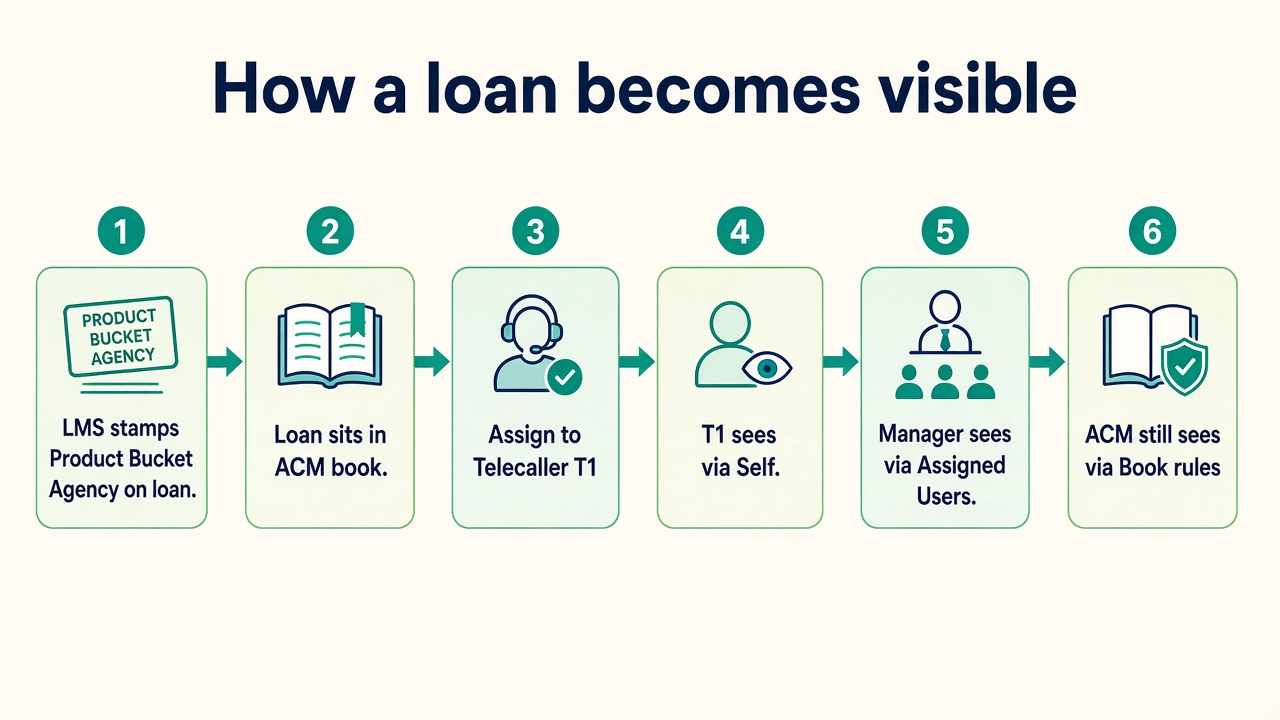
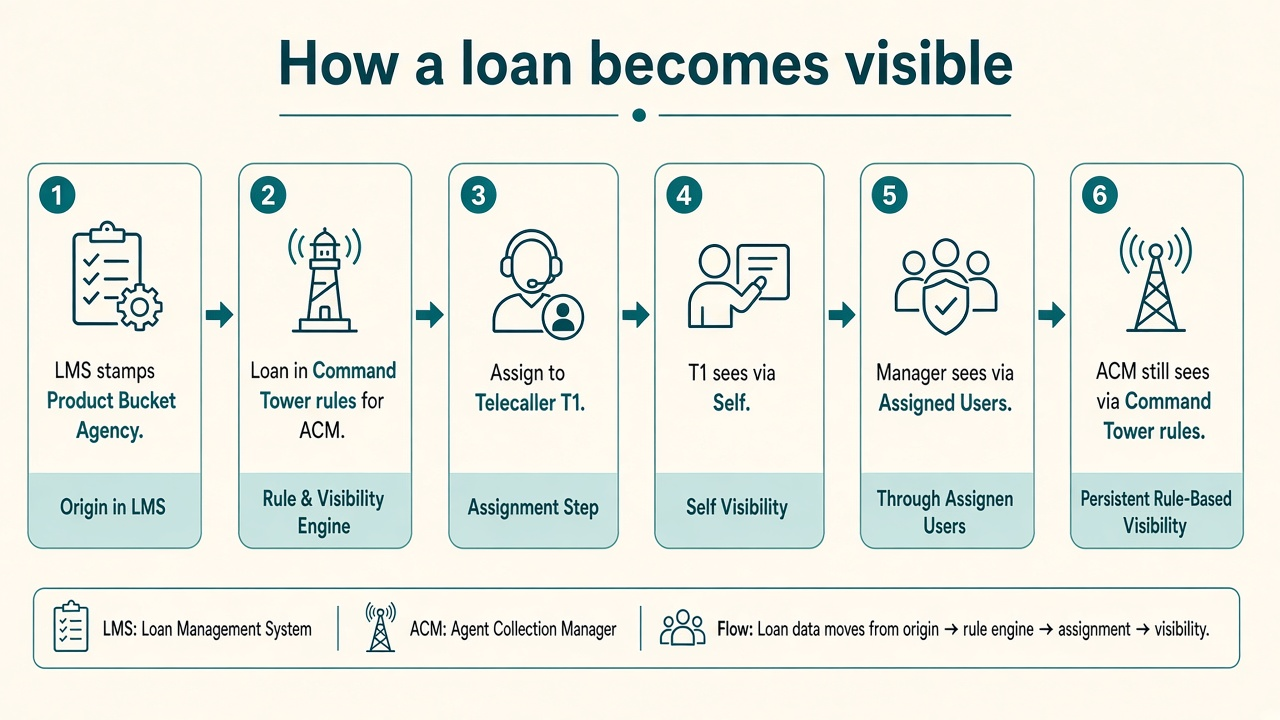
Rename book rules to Command Tower rules in the HTML understanding doc.

diff --git a/Collekto-AuthZ-Visibility-Client-Briefing.html b/Collekto-AuthZ-Visibility-Client-Briefing.html
@@ -351,18 +351,18 @@
 
       <h3>2. Today vs target</h3>
       <img class="diagram-img" src="assets/diagram-today-vs-target.png" alt="Temporary agency workaround versus Visibility solution" />
-      <p class="diagram-cap">Today: agency per manager → portfolios multiply. Target: Visibility (team + book) — no agency-per-manager for access.</p>
+      <p class="diagram-cap">Today: agency per manager → portfolios multiply. Target: Visibility (team + Command Tower rules) — no agency-per-manager for access.</p>
 
-      <h3>3. Book rules vs team rules</h3>
-      <img class="diagram-img" src="assets/diagram-book-vs-team.png" alt="Book rules versus team rules" />
-      <p class="diagram-cap"><strong>Book</strong> = Product/Bucket/Agency on the loan. <strong>Team</strong> = Assigned Users / Self. Same user can have both (OR).</p>
+      <h3>3. Command Tower rules vs team rules</h3>
+      <img class="diagram-img" src="assets/diagram-book-vs-team.png" alt="Command Tower rules versus team rules" />
+      <p class="diagram-cap"><strong>Command Tower rules</strong> = Product/Bucket/Agency on the loan (from CT map). <strong>Team rules</strong> = Assigned Users / Self. Same user can have both (OR).</p>
       <div class="mermaid">
 flowchart TB
   Loan[Loan attributes + assignee]
-  Book[Book rules]
+  CTRules[Command Tower rules]
   Team[Team / Self rules]
   Out[Visible]
-  Loan --> Book --> Out
+  Loan --> CTRules --> Out
   Loan --> Team --> Out
       </div>
 
@@ -377,16 +377,16 @@ sequenceDiagram
   participant T1 as Telecaller
   participant M1 as Manager
   LMS->>Loan: Stamp Product Bucket Agency
-  Note over ACM,Loan: ACM sees via book even if unassigned
+  Note over ACM,Loan: ACM sees via Command Tower rules even if unassigned
   Loan->>Loan: Assign worker T1
   Loan-->>T1: Self
   Loan-->>M1: T1 in Assigned Users
-  Loan-->>ACM: Still via book
+  Loan-->>ACM: Still via Command Tower rules
       </div>
 
       <h3>5. Who appears in dropdowns</h3>
       <img class="diagram-img" src="assets/diagram-dropdowns.png" alt="Manager and sub-tenant dropdown population" />
-      <p class="diagram-cap">Manager = Assigned Users only. Sub-tenant = Command Tower book + people resolver (+ direct Assigned Users if no manager).</p>
+      <p class="diagram-cap">Manager = Assigned Users only. Sub-tenant = Command Tower scope + people resolver (+ direct Assigned Users if no manager).</p>
       <div class="mermaid">
 flowchart LR
   M[Manager] --> AU[Assigned Users] --> D1[Only those TC FA]
@@ -440,7 +440,7 @@ flowchart LR
         <article class="card">
           <div class="q">Visibility</div>
           <h3>Which cases?</h3>
-          <p>Book rules + team rules + Self / All Cases.</p>
+          <p>Command Tower rules + team rules + Self / All Cases.</p>
         </article>
       </div>
       <div class="formula">ACCESS = Authenticated Identity + Required Permission + Matching Visibility</div>
@@ -500,7 +500,7 @@ flowchart TB
       <h2>3. Solution architecture</h2>
       <p>
         Visibility is <strong>configured case scope</strong>, not “simulate hierarchy with agencies.”
-        Hierarchy-like outcomes (manager team, area book, admin all-cases) are expressed as rules.
+        Hierarchy-like outcomes (manager team, Command Tower scope, admin all-cases) are expressed as rules.
       </p>
       <div class="mermaid">
 flowchart TB
@@ -518,7 +518,7 @@ flowchart TB
         <tbody>
           <tr><td>Same column, multiple values</td><td><strong>OR</strong></td><td>Bucket B1 | B2</td></tr>
           <tr><td>Different columns, one row</td><td><strong>AND</strong></td><td>Product PL AND Agency Inhouse</td></tr>
-          <tr><td>Multiple rows, same user</td><td><strong>OR</strong></td><td>Team assignees OR product book</td></tr>
+          <tr><td>Multiple rows, same user</td><td><strong>OR</strong></td><td>Team assignees OR Command Tower product scope</td></tr>
         </tbody>
       </table>
 
@@ -571,7 +571,7 @@ flowchart TB
           </tr>
           <tr>
             <td>Loan detail</td>
-            <td>May open cases outside intended book</td>
+            <td>May open cases outside intended Command Tower scope</td>
             <td>Deny if case fails visibility</td>
           </tr>
           <tr>
@@ -677,9 +677,9 @@ flowchart TB
             <td>Portfolio picker as security</td>
           </tr>
           <tr>
-            <td>Area / book admin (NCM/ZCM/RCM/ACM style)</td>
+            <td>Area / Command Tower admin (NCM/ZCM/RCM/ACM style)</td>
             <td>Yes + permissions</td>
-            <td>Product/Bucket/Agency (and later Branch) rows for their book</td>
+            <td>Product/Bucket/Agency (and later Branch) rows = Command Tower rules for their scope</td>
             <td>Assuming title alone grants loan filter</td>
           </tr>
         </tbody>
@@ -828,15 +828,15 @@ flowchart LR
           </tr>
           <tr>
             <td>ACM/RCM sees those people in <strong>dropdowns</strong></td>
-            <td>People resolver includes profiles listed on that CM’s Assigned Users <em>and/or</em> mapped under their Command Tower book without requiring a manager node</td>
+            <td>People resolver includes profiles listed on that CM’s Assigned Users <em>and/or</em> mapped under their Command Tower scope without requiring a manager node</td>
           </tr>
           <tr>
             <td>TC/FA own app / lists</td>
             <td>Still <strong>Self Assigned = Y</strong> — unchanged</td>
           </tr>
           <tr>
-            <td>Optional book overlap</td>
-            <td>ACM can also keep Product/Bucket/Agency rules from CT; Assigned Users covers the direct-report people path</td>
+            <td>Optional Command Tower rules overlap</td>
+            <td>ACM can also keep Command Tower rules (Product/Bucket/Agency from CT); Assigned Users covers the direct-report people path</td>
           </tr>
         </tbody>
       </table>
@@ -853,15 +853,15 @@ flowchart TB
       </div>
       <ul>
         <li><strong>Solved:</strong> no need to invent a dummy manager or a per-manager agency just to hang TC/FA under ACM/RCM.</li>
-        <li><strong>Mixed teams:</strong> same ACM can have some people via managers (CT book → manager → Assigned Users) and some via direct Assigned Users on the ACM.</li>
-        <li><strong>Command Tower:</strong> may still map ACM → Agency → Product/Bucket for the book; people without a manager are attached via Visibility Assigned Users on the ACM/RCM, not forced through a manager row in CT.</li>
+        <li><strong>Mixed teams:</strong> same ACM can have some people via managers (CT scope → manager → Assigned Users) and some via direct Assigned Users on the ACM.</li>
+        <li><strong>Command Tower:</strong> may still map ACM → Agency → Product/Bucket for the Command Tower scope; people without a manager are attached via Visibility Assigned Users on the ACM/RCM, not forced through a manager row in CT.</li>
       </ul>
 
       <h3>5A.2 Sub-tenant roles (NCM / ZCM / RCM / ACM) — dropdowns &amp; Command Tower</h3>
       <p>
-        Sub-tenant users are Tenant Admin–class profiles with a book of business
+        Sub-tenant users are Tenant Admin–class profiles with a Command Tower scope (book of business)
         (often aligned to NCM → ZCM → RCM → ACM). They need dropdowns for
-        <strong>child CMs, managers, telecallers, and field agents</strong> that sit under their book —
+        <strong>child CMs, managers, telecallers, and field agents</strong> that sit under their Command Tower scope —
         not the entire tenant directory.
       </p>
 
@@ -907,7 +907,7 @@ flowchart TB
           <tr>
             <td><strong>ACM</strong></td>
             <td>Agencies (and product/bucket) under this ACM</td>
-            <td>Managers / TC / FA linked to those agencies or to managers in that book — not tenant-wide</td>
+            <td>Managers / TC / FA linked to those agencies or to managers in that Command Tower scope — not tenant-wide</td>
           </tr>
           <tr>
             <td><strong>Primary Tenant Admin</strong> (no sub-role)</td>
@@ -935,14 +935,14 @@ flowchart TB
         <div class="flow-step">
           <div class="n">1</div>
           <div>
-            <strong>Book from Command Tower:</strong> from the logged-in CM id, read CT to get
+            <strong>Scope from Command Tower:</strong> from the logged-in CM id, read CT to get
             child CM ids + Agency (+ Product/Bucket) set for that subtree.
           </div>
         </div>
         <div class="flow-step">
           <div class="n">2</div>
             <div>
-              <strong>People from profiles:</strong> return Managers / Telecallers / Field Agents in that book —
+              <strong>People from profiles:</strong> return Managers / Telecallers / Field Agents in that Command Tower scope —
               (a) managers under the CT agencies, (b) TC/FA on those managers’ Assigned Users, and
               (c) TC/FA listed <strong>directly</strong> on the logged-in CM’s Assigned Users (no manager required).
             </div>
@@ -951,7 +951,7 @@ flowchart TB
           <div class="n">3</div>
           <div>
             <strong>Cases from Visibility:</strong> loan lists for the sub-tenant still use their
-            published Visibility rules (often Agency/Product/Bucket seeded from the same CT book).
+            published Visibility rules (often Agency/Product/Bucket Command Tower rules seeded from the same CT map).
             Selecting a person in a dropdown only <em>narrows</em> further; it cannot expand beyond Visibility.
           </div>
         </div>
@@ -964,14 +964,14 @@ flowchart TB
           <tr>
             <td>ZCM-West</td>
             <td>RCM-North, RCM-South → ACM-A, ACM-B → Agency Inhouse + Product PL…</td>
-            <td>Only those RCMs/ACMs; managers M1,M2 in that book; TC/FA on M1/M2 teams</td>
+            <td>Only those RCMs/ACMs; managers M1,M2 in that Command Tower scope; TC/FA on M1/M2 teams</td>
             <td>Visibility rules for ZCM-West (seeded from same agencies/products/buckets)</td>
           </tr>
           <tr>
             <td>ACM-A</td>
             <td>Agency set under ACM-A only</td>
-            <td>Managers/TC/FA in ACM-A book only — not RCM-South’s people</td>
-            <td>Narrower Visibility book</td>
+            <td>Managers/TC/FA in ACM-A Command Tower scope only — not RCM-South’s people</td>
+            <td>Narrower Command Tower rules</td>
           </tr>
         </tbody>
       </table>
@@ -1005,8 +1005,8 @@ flowchart TB
           </tr>
           <tr>
             <td>ACM / RCM / ZCM / NCM</td>
-            <td>TC/FA under their CT book</td>
-            <td>Managers under their CT book</td>
+            <td>TC/FA under their Command Tower scope</td>
+            <td>Managers under their Command Tower scope</td>
             <td>Child CMs from CT cascade</td>
             <td>Command Tower subtree + people resolver</td>
           </tr>
@@ -1096,9 +1096,9 @@ flowchart LR
         <div class="card">
           <h3>Command Tower</h3>
           <ul>
-            <li>Org / book-of-business map</li>
+            <li>Org / Command Tower map</li>
             <li>Useful for reporting drill-downs and ops reference</li>
-            <li>Can inform <em>what</em> Product/Bucket/Agency belong to a CM book</li>
+            <li>Can inform <em>what</em> Product/Bucket/Agency belong to a CM Command Tower scope</li>
             <li>May continue to be uploaded/maintained as today for reporting</li>
           </ul>
         </div>
@@ -1147,7 +1147,7 @@ flowchart LR
         <thead><tr><th>Need</th><th>Use Command Tower?</th><th>Use Visibility?</th></tr></thead>
         <tbody>
           <tr><td>Which ZCM/RCM/ACM options to show</td><td><strong>Yes</strong> — cascade from logged-in CM</td><td>No</td></tr>
-          <tr><td>Which agencies/products/buckets are in my book</td><td><strong>Yes</strong> — map</td><td>Also seeded into Visibility for case queries</td></tr>
+          <tr><td>Which agencies/products/buckets are in my Command Tower scope</td><td><strong>Yes</strong> — map</td><td>Also seeded into Visibility for case queries</td></tr>
           <tr><td>Which TC/FA appear for a manager</td><td>No</td><td><strong>Yes</strong> — Assigned Users</td></tr>
           <tr><td>Which TC/FA/managers appear for a ZCM/ACM</td><td><strong>Yes</strong> — subtree → people resolver</td><td>Cases still Visibility</td></tr>
           <tr><td>Which loans appear</td><td>Not as ACL</td><td><strong>Yes</strong> — authoritative</td></tr>
@@ -1159,7 +1159,7 @@ flowchart LR
         <li>Will not make Command Tower the sole ACL for case lists</li>
         <li>Will not require CT sync on every page load for security of loan rows</li>
         <li>Will not block hierarchy go-live on rebuilding CT as a full hierarchy engine</li>
-        <li>Will not show tenant-wide TC/FA lists to managers or to sub-tenants outside their CT book</li>
+        <li>Will not show tenant-wide TC/FA lists to managers or to sub-tenants outside their Command Tower scope</li>
       </ul>
       <p class="muted">
         If Godrej later wants automatic sync “CT change → Visibility draft,” that can be a later phase
@@ -1228,7 +1228,7 @@ flowchart TB
         <tbody>
           <tr><td>Field Agent</td><td>Pending / PTP / visits</td><td>Auth ok → Visibility SELF → only assigned loans</td></tr>
           <tr><td>Telecaller</td><td>All Cases / dialer lists</td><td>Visibility SELF → assigned loans</td></tr>
-          <tr><td>Manager</td><td>Team loans / Manager App</td><td>Visibility Assigned Users (± Product/Bucket) → team book</td></tr>
+          <tr><td>Manager</td><td>Team loans / Manager App</td><td>Visibility Assigned Users (± Command Tower rules) → team cases</td></tr>
           <tr><td>Tenant Admin</td><td>Dashboards / reports</td><td>All Cases → full tenant (explicit)</td></tr>
           <tr><td>Any user</td><td>Applies multi-select filters</td><td>Filters ∩ Visibility — never expands scope</td></tr>
         </tbody>
@@ -1313,7 +1313,7 @@ flowchart TB
       <h3>10.5 Assignment then collection</h3>
       <div class="mermaid">
 flowchart LR
-  L[Loan in book] --> A[Assign to FA or TC]
+  L[Loan in Command Tower scope] --> A[Assign to FA or TC]
   A --> S[Assignee stamped]
   S --> FA[FA/TC sees via SELF]
   S --> M[Manager sees via Assigned Users]
@@ -1345,7 +1345,7 @@ sequenceDiagram
   ST->>UI: Open hierarchy / people filters
   UI->>CT: Subtree for logged-in ZCM
   CT-->>UI: Child RCM ACM Agency Product Bucket
-  UI->>PR: Managers TC FA in that book
+  UI->>PR: Managers TC FA in that Command Tower scope
   PR-->>UI: Scoped people lists
   Note over UI: Loan query still uses Visibility rules for ST
       </div>
